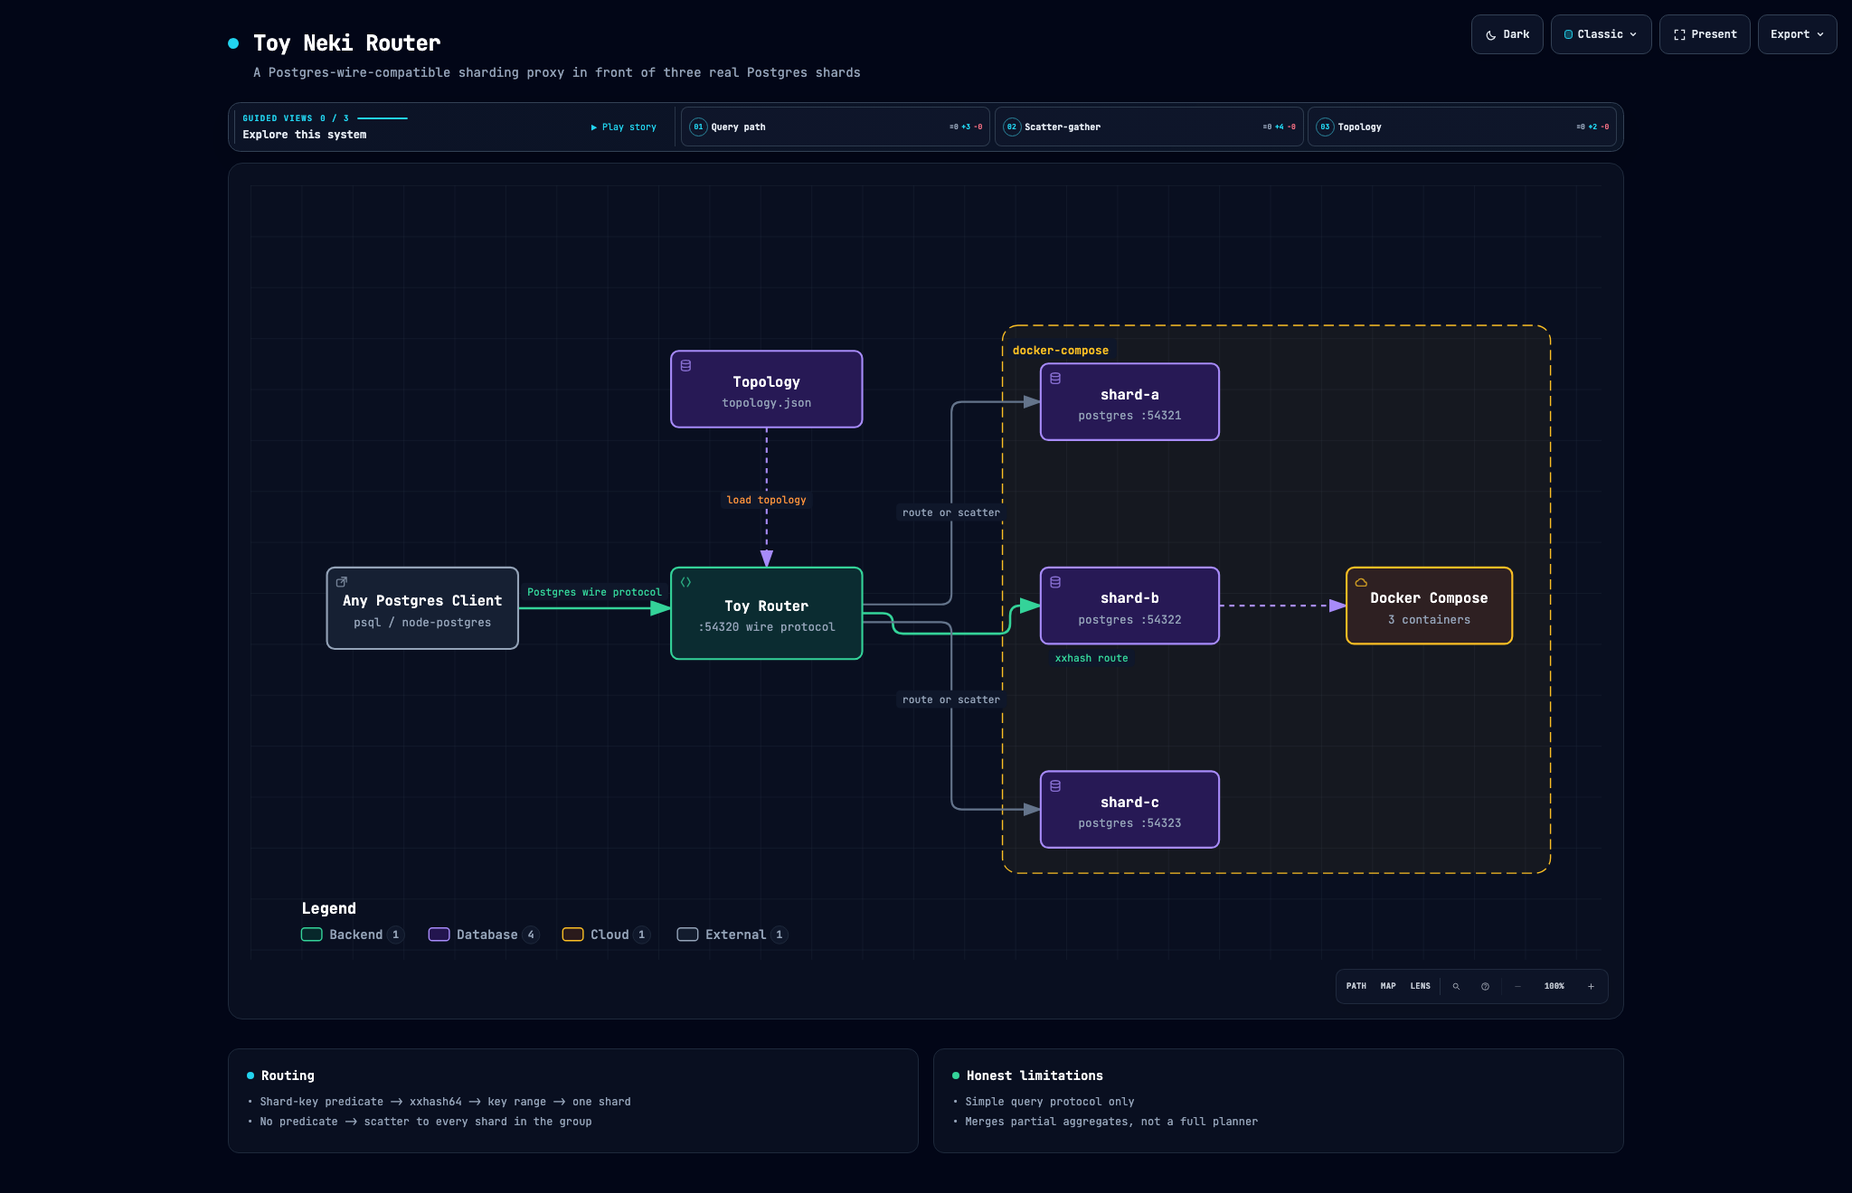
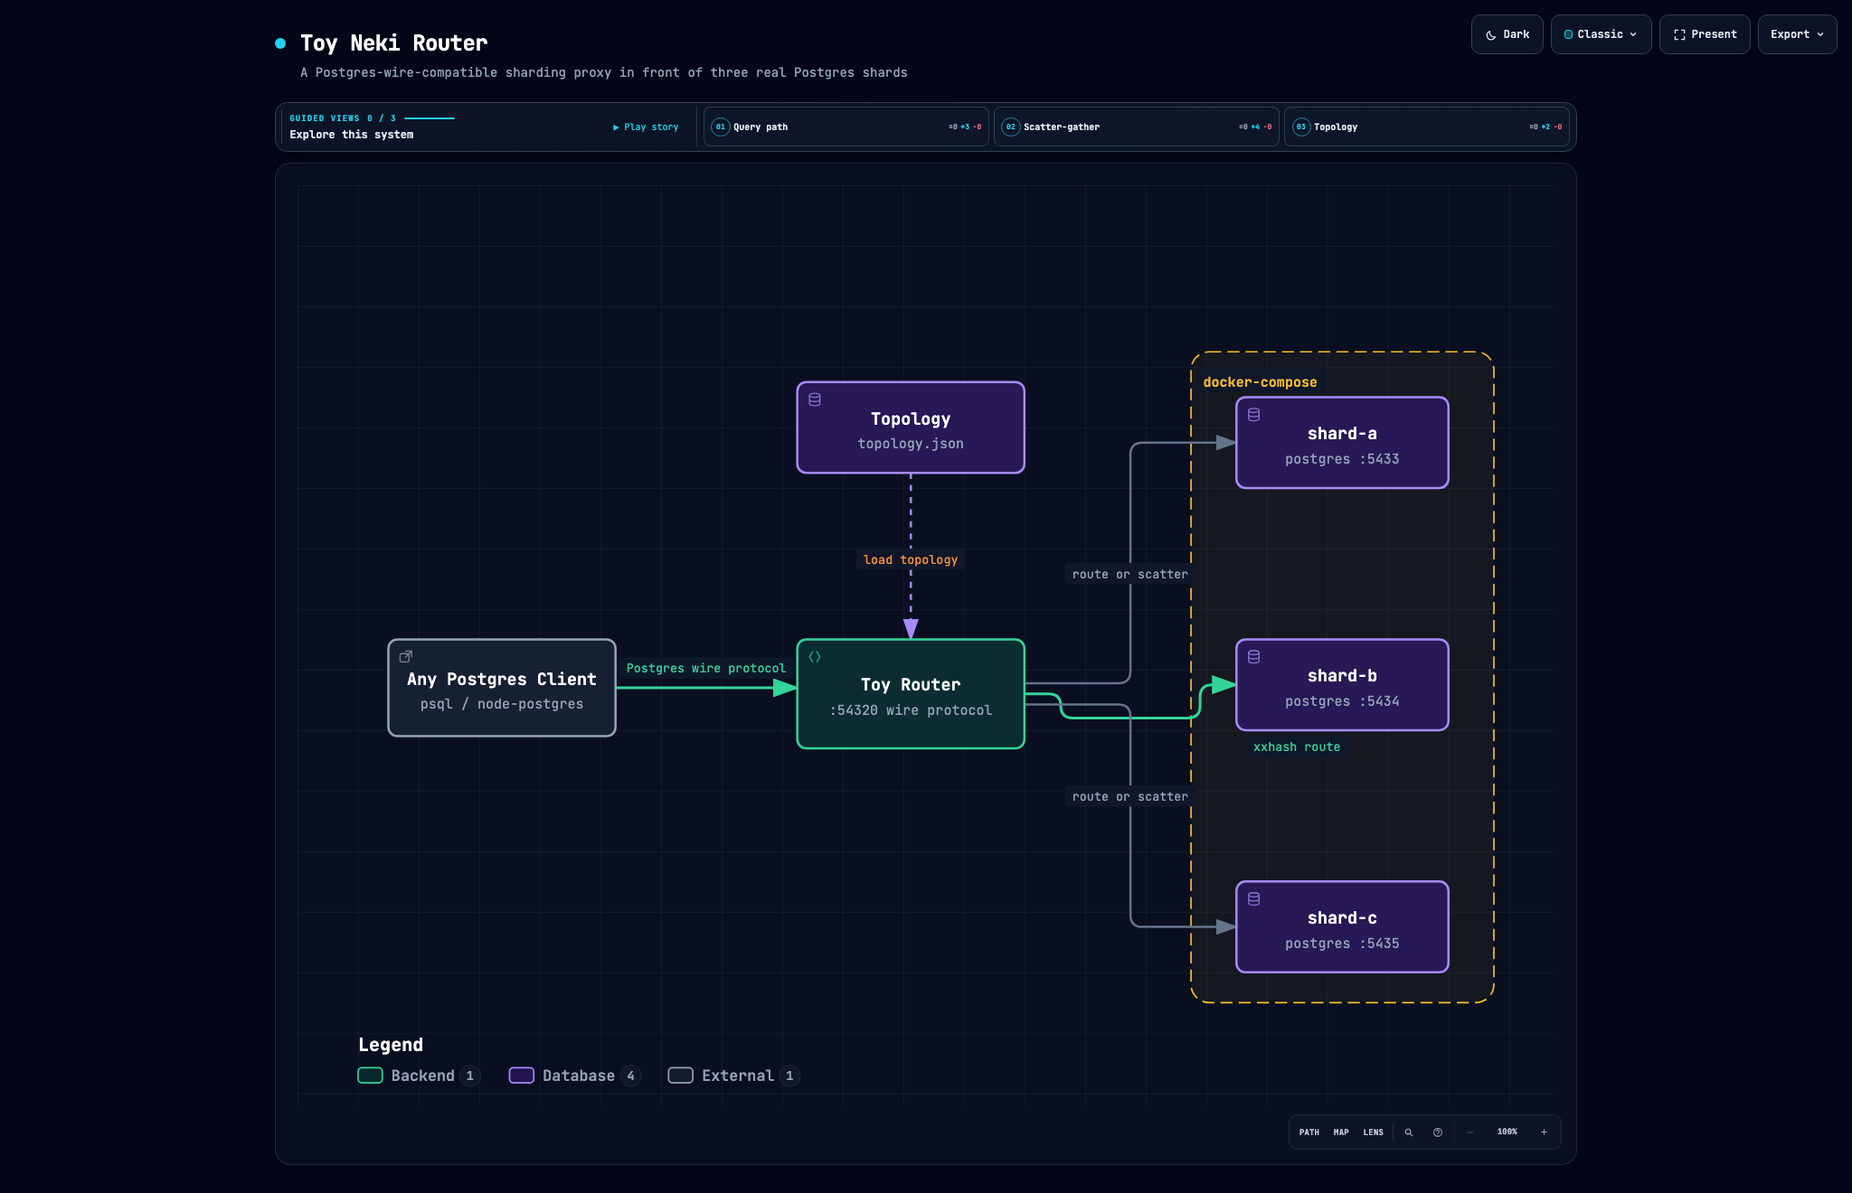
psql support: decline SSL/GSSENC cleanly, fix RowDescription encoding; README voice pass + corrected architecture diagram

diff --git a/diagrams/toy-router-architecture.html b/diagrams/toy-router-architecture.html
@@ -5005,7 +5005,7 @@
     <!-- Main Diagram -->
     <div class="diagram-container" data-detail-level="read"
          data-preset-badge-editorial-plate="ARCHIFY / PLATE 04">
-      <svg viewBox="0 0 1060 608" role="img" lang="en" aria-labelledby="archify-diagram-title archify-diagram-description" data-preset="classic" data-quality-profile="showcase">
+      <svg viewBox="0 0 830 608" role="img" lang="en" aria-labelledby="archify-diagram-title archify-diagram-description" data-preset="classic" data-quality-profile="showcase">
         <title id="archify-diagram-title">Toy Neki Router</title>
         <desc id="archify-diagram-description">A Postgres-wire-compatible sharding proxy in front of three real Postgres shards</desc>
         <!-- Definitions -->
@@ -5031,7 +5031,7 @@
         <rect width="100%" height="100%" fill="url(#grid)" />
 
         <!-- Boundaries (behind everything) -->
-        <rect data-graph-role="structural-frame" data-composition-frame-kind="region" data-composition-frame-id="0" data-composition-frame-label="docker-compose" x="590" y="110" width="430" height="430" rx="12" class="c-region" stroke-width="1"/>
+        <rect data-graph-role="structural-frame" data-composition-frame-kind="region" data-composition-frame-id="0" data-composition-frame-label="docker-compose" x="590" y="110" width="200" height="430" rx="12" class="c-region" stroke-width="1"/>
 
         <!-- Connection paths (before components for correct z-order) -->
         <path data-edge-from="client" data-edge-to="router" data-edge-label="Postgres wire protocol" data-edge-key="0" data-edge-id="client-router" data-composition-points="210,332;330,332" d="M 210 332 L 330 332" class="a-emphasis" stroke-width="1.8" marker-end="url(#arrowhead-emphasis)"/>
@@ -5039,7 +5039,6 @@
         <path data-edge-from="router" data-edge-to="shard-a" data-edge-label="route or scatter" data-edge-key="2" data-edge-id="router-a" data-composition-points="480,329;550,329;550,170;620,170" d="M 480 329 L 542 329 Q 550 329 550 321 L 550 178 Q 550 170 558 170 L 620 170" class="a-default" stroke-width="1.5" marker-end="url(#arrowhead)"/>
         <path data-edge-from="router" data-edge-to="shard-b" data-edge-label="xxhash route" data-edge-key="3" data-edge-id="router-b" data-composition-points="480,336;504,336;504,352;596,352;596,330;620,330" d="M 480 336 L 496 336 Q 504 336 504 344 L 504 344 Q 504 352 512 352 L 588 352 Q 596 352 596 344 L 596 338 Q 596 330 604 330 L 620 330" class="a-emphasis" stroke-width="1.8" marker-end="url(#arrowhead-emphasis)"/>
         <path data-edge-from="router" data-edge-to="shard-c" data-edge-label="route or scatter" data-edge-key="4" data-edge-id="router-c" data-composition-points="480,343;550,343;550,490;620,490" d="M 480 343 L 542 343 Q 550 343 550 351 L 550 482 Q 550 490 558 490 L 620 490" class="a-default" stroke-width="1.5" marker-end="url(#arrowhead)"/>
-        <path data-edge-from="shard-b" data-edge-to="docker" data-edge-key="5" data-edge-id="shards-docker" data-composition-points="760,330;860,330" d="M 760 330 L 860 330" class="a-dashed" stroke-width="1.5" marker-end="url(#arrowhead-dashed)"/>
 
         <!-- Components -->
         <g id="node-client" data-node-id="client" data-node-label="Any Postgres Client" tabindex="0" role="button" aria-label="Focus Any Postgres Client, psql / node-postgres, Architecture component" aria-pressed="false" data-node-kind="external" data-node-sublabel="psql / node-postgres" data-node-context="Architecture component">
@@ -5079,8 +5078,8 @@
         <text data-detail="fine" x="405" y="182" class="t-database" font-size="7" text-anchor="middle">Neki-shaped</text>
         </g>
 
-        <g id="node-shard-a" data-node-id="shard-a" data-node-label="shard-a" tabindex="0" role="button" aria-label="Focus shard-a, postgres :54321, docker-compose" aria-pressed="false" data-node-kind="database" data-node-sublabel="postgres :54321" data-node-tag="range 00-54" data-node-context="docker-compose">
-          <title>shard-a · postgres :54321 · docker-compose · range 00-54</title>
+        <g id="node-shard-a" data-node-id="shard-a" data-node-label="shard-a" tabindex="0" role="button" aria-label="Focus shard-a, postgres :5433, docker-compose" aria-pressed="false" data-node-kind="database" data-node-sublabel="postgres :5433" data-node-tag="range 00-40" data-node-context="docker-compose">
+          <title>shard-a · postgres :5433 · docker-compose · range 00-40</title>
           <rect x="620" y="140" width="140" height="60" rx="6" class="c-mask"/>
           <rect x="620" y="140" width="140" height="60" rx="6" class="c-database" stroke-width="1.5"/>
           <g aria-hidden="true" data-semantic-sigil="database" class="semantic-sigil s-database" transform="translate(626 146) scale(0.6875)">
@@ -5088,12 +5087,12 @@
             <path d="M3 4v8c0 1.1 2.2 2 5 2s5-.9 5-2V4M3 8c0 1.1 2.2 2 5 2s5-.9 5-2"/>
           </g>
           <text data-node-label="" data-detail-anchor="" x="690" y="168" class="t-primary" font-size="11" font-weight="600" text-anchor="middle">shard-a</text>
-        <text data-detail="context" x="690" y="184" class="t-muted" font-size="9" text-anchor="middle">postgres :54321</text>
-        <text data-detail="fine" x="690" y="192" class="t-database" font-size="7" text-anchor="middle">range 00-54</text>
+        <text data-detail="context" x="690" y="184" class="t-muted" font-size="9" text-anchor="middle">postgres :5433</text>
+        <text data-detail="fine" x="690" y="192" class="t-database" font-size="7" text-anchor="middle">range 00-40</text>
         </g>
 
-        <g id="node-shard-b" data-node-id="shard-b" data-node-label="shard-b" tabindex="0" role="button" aria-label="Focus shard-b, postgres :54322, docker-compose" aria-pressed="false" data-node-kind="database" data-node-sublabel="postgres :54322" data-node-tag="range 54-aa" data-node-context="docker-compose">
-          <title>shard-b · postgres :54322 · docker-compose · range 54-aa</title>
+        <g id="node-shard-b" data-node-id="shard-b" data-node-label="shard-b" tabindex="0" role="button" aria-label="Focus shard-b, postgres :5434, docker-compose" aria-pressed="false" data-node-kind="database" data-node-sublabel="postgres :5434" data-node-tag="range 40-80" data-node-context="docker-compose">
+          <title>shard-b · postgres :5434 · docker-compose · range 40-80</title>
           <rect x="620" y="300" width="140" height="60" rx="6" class="c-mask"/>
           <rect x="620" y="300" width="140" height="60" rx="6" class="c-database" stroke-width="1.5"/>
           <g aria-hidden="true" data-semantic-sigil="database" class="semantic-sigil s-database" transform="translate(626 306) scale(0.6875)">
@@ -5101,12 +5100,12 @@
             <path d="M3 4v8c0 1.1 2.2 2 5 2s5-.9 5-2V4M3 8c0 1.1 2.2 2 5 2s5-.9 5-2"/>
           </g>
           <text data-node-label="" data-detail-anchor="" x="690" y="328" class="t-primary" font-size="11" font-weight="600" text-anchor="middle">shard-b</text>
-        <text data-detail="context" x="690" y="344" class="t-muted" font-size="9" text-anchor="middle">postgres :54322</text>
-        <text data-detail="fine" x="690" y="352" class="t-database" font-size="7" text-anchor="middle">range 54-aa</text>
+        <text data-detail="context" x="690" y="344" class="t-muted" font-size="9" text-anchor="middle">postgres :5434</text>
+        <text data-detail="fine" x="690" y="352" class="t-database" font-size="7" text-anchor="middle">range 40-80</text>
         </g>
 
-        <g id="node-shard-c" data-node-id="shard-c" data-node-label="shard-c" tabindex="0" role="button" aria-label="Focus shard-c, postgres :54323, docker-compose" aria-pressed="false" data-node-kind="database" data-node-sublabel="postgres :54323" data-node-tag="range aa+" data-node-context="docker-compose">
-          <title>shard-c · postgres :54323 · docker-compose · range aa+</title>
+        <g id="node-shard-c" data-node-id="shard-c" data-node-label="shard-c" tabindex="0" role="button" aria-label="Focus shard-c, postgres :5435, docker-compose" aria-pressed="false" data-node-kind="database" data-node-sublabel="postgres :5435" data-node-tag="range 80-ff" data-node-context="docker-compose">
+          <title>shard-c · postgres :5435 · docker-compose · range 80-ff</title>
           <rect x="620" y="460" width="140" height="60" rx="6" class="c-mask"/>
           <rect x="620" y="460" width="140" height="60" rx="6" class="c-database" stroke-width="1.5"/>
           <g aria-hidden="true" data-semantic-sigil="database" class="semantic-sigil s-database" transform="translate(626 466) scale(0.6875)">
@@ -5114,19 +5113,8 @@
             <path d="M3 4v8c0 1.1 2.2 2 5 2s5-.9 5-2V4M3 8c0 1.1 2.2 2 5 2s5-.9 5-2"/>
           </g>
           <text data-node-label="" data-detail-anchor="" x="690" y="488" class="t-primary" font-size="11" font-weight="600" text-anchor="middle">shard-c</text>
-        <text data-detail="context" x="690" y="504" class="t-muted" font-size="9" text-anchor="middle">postgres :54323</text>
-        <text data-detail="fine" x="690" y="512" class="t-database" font-size="7" text-anchor="middle">range aa+</text>
-        </g>
-
-        <g id="node-docker" data-node-id="docker" data-node-label="Docker Compose" tabindex="0" role="button" aria-label="Focus Docker Compose, 3 containers, docker-compose" aria-pressed="false" data-node-kind="cloud" data-node-sublabel="3 containers" data-node-context="docker-compose">
-          <title>Docker Compose · 3 containers · docker-compose</title>
-          <rect x="860" y="300" width="130" height="60" rx="6" class="c-mask"/>
-          <rect x="860" y="300" width="130" height="60" rx="6" class="c-cloud" stroke-width="1.5"/>
-          <g aria-hidden="true" data-semantic-sigil="cloud" class="semantic-sigil s-cloud" transform="translate(866 306) scale(0.6875)">
-            <path d="M4.3 12.5h7.3a2.4 2.4 0 0 0 .2-4.8 4 4 0 0 0-7.5-1.3A3.1 3.1 0 0 0 4.3 12.5Z"/>
-          </g>
-          <text data-node-label="" data-detail-anchor="" x="925" y="328" class="t-primary" font-size="11" font-weight="600" text-anchor="middle">Docker Compose</text>
-        <text data-detail="context" x="925" y="344" class="t-muted" font-size="9" text-anchor="middle">3 containers</text>
+        <text data-detail="context" x="690" y="504" class="t-muted" font-size="9" text-anchor="middle">postgres :5435</text>
+        <text data-detail="fine" x="690" y="512" class="t-database" font-size="7" text-anchor="middle">range 80-ff</text>
         </g>
 
         <!-- Connection labels -->
@@ -5151,7 +5139,6 @@
           <text x="550" y="406.5" class="t-muted" font-size="8" text-anchor="middle">route or scatter</text>
         </g>
 
-
         <!-- Boundary labels (foreground masks keep routes out of titles) -->
         <g data-graph-role="structural-frame-label" data-composition-frame-id="0" data-composition-frame-kind="region" data-composition-frame-label="docker-compose">
           <rect data-graph-role="structural-frame-label-mask" x="594" y="120" width="85.6" height="16" rx="3" class="c-mask"/>
@@ -5169,13 +5156,9 @@
             <rect x="140" y="583" width="16" height="10" rx="2.5" class="c-database" stroke-width="1"/>
             <text x="162" y="592" class="t-muted" font-size="10" font-weight="500">Database</text>
           </g>
-          <g data-legend-semantic-kind="cloud" data-legend-kind="cloud" data-legend-label="Cloud" data-legend-x="245" data-legend-baseline="592" data-legend-width="68">
-            <rect x="245" y="583" width="16" height="10" rx="2.5" class="c-cloud" stroke-width="1"/>
-            <text x="267" y="592" class="t-muted" font-size="10" font-weight="500">Cloud</text>
-          </g>
-          <g data-legend-semantic-kind="external" data-legend-kind="external" data-legend-label="External" data-legend-x="335" data-legend-baseline="592" data-legend-width="83">
-            <rect x="335" y="583" width="16" height="10" rx="2.5" class="c-external" stroke-width="1"/>
-            <text x="357" y="592" class="t-muted" font-size="10" font-weight="500">External</text>
+          <g data-legend-semantic-kind="external" data-legend-kind="external" data-legend-label="External" data-legend-x="245" data-legend-baseline="592" data-legend-width="83">
+            <rect x="245" y="583" width="16" height="10" rx="2.5" class="c-external" stroke-width="1"/>
+            <text x="267" y="592" class="t-muted" font-size="10" font-weight="500">External</text>
           </g>
         </g>
       </svg>

diff --git a/src/server.ts b/src/server.ts
@@ -87,11 +87,16 @@ function errorResponse(msg: string): Buffer {
 }
 
 function rowDescription(columns: string[]): Buffer {
-  const fields = columns.map((c) =>
-    Buffer.concat([Buffer.from(`${c}\0`), Buffer.from([0, 0, 0, 0, 0, 0, 0, 0, 0, 0, 0, 0, 0, 0, 0, 0, 0, 0])])
-  );
-  const fieldBufs = Buffer.concat(fields);
-  const body = Buffer.concat([short(columns.length), fieldBufs, Buffer.from([0])]);
+  // Per field: name\0, tableOID(4), attnum(2), typeOID(4)=705 unknown,
+  // typlen(2)=-1, atttypmod(4)=-1, format(2)=0 text.
+  const fields = columns.map((c) => {
+    const meta = Buffer.alloc(18);
+    meta.writeInt32BE(705, 6);
+    meta.writeInt16BE(-1, 10);
+    meta.writeInt32BE(-1, 12);
+    return Buffer.concat([Buffer.from(`${c}\0`), meta]);
+  });
+  const body = Buffer.concat([short(columns.length), ...fields]);
   return framed("T", body); // RowDescription
 }
 
@@ -199,11 +204,12 @@ const server = net.createServer((socket) => {
 
   function nextMessage(): Buffer | null {
     if (!authenticated) {
-      if (pending.length < 4) return null;
-      if (pending.readInt32BE(0) === 80877103) return pending.subarray(0, 8);
-      // First non-SSL message is a typed frame: need type byte + length
-      if (pending.length < 5) return null;
-      return pending.subarray(0, 5 + Math.max(0, pending.readInt32BE(1) - 4));
+      // Pre-auth frames (SSLRequest, GSSENCRequest, StartupMessage) are
+      // untyped: Int32 total length, Int32 code, then payload.
+      if (pending.length < 8) return null;
+      const len = pending.readInt32BE(0);
+      if (pending.length < len) return null;
+      return pending.subarray(0, len);
     }
     if (pending.length < 5) return null;
     const len = pending.readInt32BE(1);
@@ -214,8 +220,9 @@ const server = net.createServer((socket) => {
   function handle(buf: Buffer) {
     pending = pending.subarray(buf.length);
     if (!authenticated) {
-      if (buf.readInt32BE(0) === 80877103) {
-        socket.write(Buffer.from([0x4e])); // SSLRequest declined; client retries cleartext
+      const code = buf.readInt32BE(4);
+      if (code === 80877103 || code === 80877104) {
+        socket.write(Buffer.from([0x4e])); // SSL/GSSENC declined; client retries cleartext
         return;
       }
       authenticated = true;

diff --git a/README.md b/README.md
@@ -1,6 +1,6 @@
 # toy-neki-router
 
-A ~200-line Postgres **wire-compatible sharding proxy**, built to understand how [Neki](https://neki.dev/) (sharded Postgres by PlanetScale) actually routes queries. It speaks enough of the Postgres wire protocol that `psql` or any `pg` driver can connect to it, parses each simple query, routes by shard key, and merges partial aggregates on scatter queries.
+A ~200-line Postgres **wire-compatible sharding proxy**, built to understand how [Neki](https://neki.dev/) (sharded Postgres by PlanetScale) routes queries. It speaks enough of the Postgres wire protocol that `psql` or any `pg` driver can connect to it, parses each simple query, routes by shard key, and merges partial aggregates on scatter queries.
 
 Three real Postgres shards run in Docker behind it. The routing topology mirrors the shape of a [Neki data topology document](https://planetscale.com/docs/neki/data-topology).
 
@@ -8,8 +8,8 @@ Three real Postgres shards run in Docker behind it. The routing topology mirrors
 
 ## What it demonstrates
 
-- **Point lookups hit one shard.** `select count(*) from events where tenant_id = 'acme'` → the router parses the predicate, hashes the key with xxhash64, maps the hash into the key range, and talks to exactly one Postgres.
-- **No shard key = scatter-gather.** `select tenant_id, count(*) from events group by tenant_id` fans out to every shard in parallel and merges the partial aggregates.
+- **Point lookups hit one shard.** `select count(*) from events where tenant_id = 'acme'` - the router parses the predicate, hashes the key with xxhash64, maps the hash into the key range, and talks to exactly one Postgres.
+- **No shard key means scatter-gather.** `select tenant_id, count(*) from events group by tenant_id` fans out to every shard in parallel and merges the partial aggregates.
 - **The routing decision is visible.** Every routed query emits a notice: `router: tenant_id='acme' -> xxhash -> 0xbb -> shard-c`.
 
 ## Run it
@@ -17,9 +17,16 @@ Three real Postgres shards run in Docker behind it. The routing topology mirrors
 ```bash
 docker compose up -d   # 3 Postgres shards on 5433, 5434, 5435
 npm install
-npm run seed                  # 50k rows across shards, deliberately skewed
-npm start                     # router listens on :54320
-npm run demo                  # connect like any pg client, show routing
+npm run seed           # 50k rows across shards, deliberately skewed
+npm start              # router listens on :54320
+npm run demo           # connect like any pg client, show routing
+```
+
+Or connect directly, since it speaks the wire protocol:
+
+```bash
+psql "postgres://postgres:postgres@localhost:54320/postgres" \
+  -c "select count(*) from events where tenant_id = 'acme'"
 ```
 
 Demo output:
@@ -40,8 +47,8 @@ router: merged partial aggregates from 3 shards
 `src/topology.ts` mirrors the Neki data topology shape: tables map to shard groups, shard groups map to hash key ranges, key ranges map to shards.
 
 1. Extract `WHERE <shard_key> = <literal>` from the query text.
-2. Hash the literal: `h64(key)`, take the first hex byte (`00`–`ff`).
-3. Binary-… linear-scan (it's a toy) the group's key ranges to find the owning shard.
+2. Hash the literal: `h64(key)`, take the first hex byte (`00` to `ff`).
+3. Linear-scan the group's key ranges to find the owning shard.
 4. Open a real connection to that Postgres and replay the query.
 
 Queries without the shard key scatter to every shard in the group; the router concatenates rows and, for `group by` queries, merges counts by key.
@@ -50,20 +57,20 @@ Queries without the shard key scatter to every shard in the group; the router co
 
 ## What's deliberately fake
 
-Honesty matters more than pretending this is Neki:
-
-- **Simple query protocol only** — no extended protocol, no prepared statements.
-- **Regex query parsing** — real Neki has a full Postgres query parser and distributed planner.
-- **Merge is naive** — it merges `count` aggregates only; no sort merge, no limit pushdown, no joins across shards.
-- **Single router process** — real Neki routers are horizontally scalable and pool connections via sidecars.
-- **Writes aren't routed** — every INSERT/UPDATE/DELETE goes to shard-a; only SELECT carries a shard-key predicate. That's why the seed script talks to the shards directly.
-- **No resharding** — Neki's headline feature is zero-downtime splits; here you'd have to rewrite the topology JSON and move rows by hand.
+- **Simple query protocol only** - no extended protocol, no prepared statements.
+- **Regex query parsing** - real Neki has a full Postgres query parser and distributed planner.
+- **Merge is naive** - it merges `count` aggregates only; no sort merge, no limit re-application after merge (`limit 3` returns up to 3 rows per shard), no joins across shards.
+- **Single router process** - real Neki routers are horizontally scalable and pool connections via sidecars.
+- **Writes aren't routed** - every INSERT/UPDATE/DELETE goes to shard-a; only SELECT carries a shard-key predicate. That's why the seed script talks to the shards directly.
+- **No resharding** - Neki's headline feature is zero-downtime splits; here you'd have to rewrite the topology JSON and move rows by hand.
 
 ![When to shard](diagrams/toy-router-when-to-shard.png)
 
-## When to actually shard
+## When to shard
 
 The toy makes the cost visible: any query missing the shard key touches every shard. Shard when you've measured a ceiling that vertical scale and caching can't fix **and** every hot query can carry the shard key. Otherwise: bigger instance, read replicas, partitioning, caching.
+
+The blog post walking through the build: [A toy Neki router to understand sharded Postgres](https://danieljohnmorris.com/writing/toy-neki-router-sharded-postgres/).
 
 ## License
 
